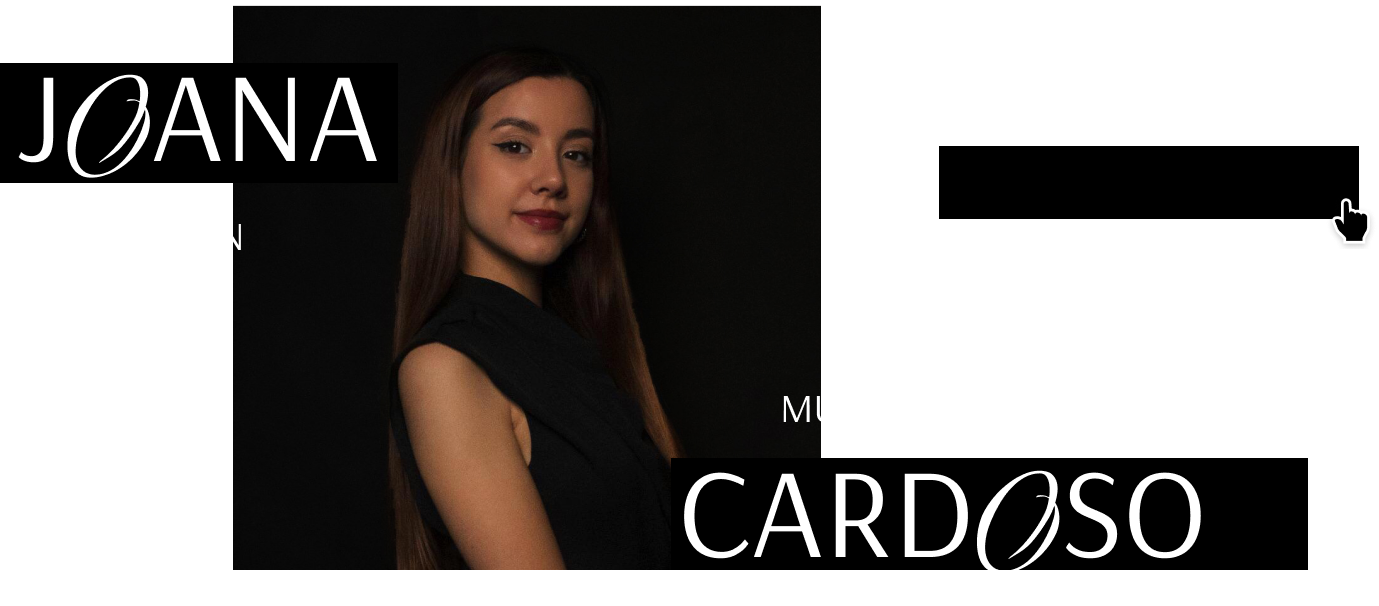
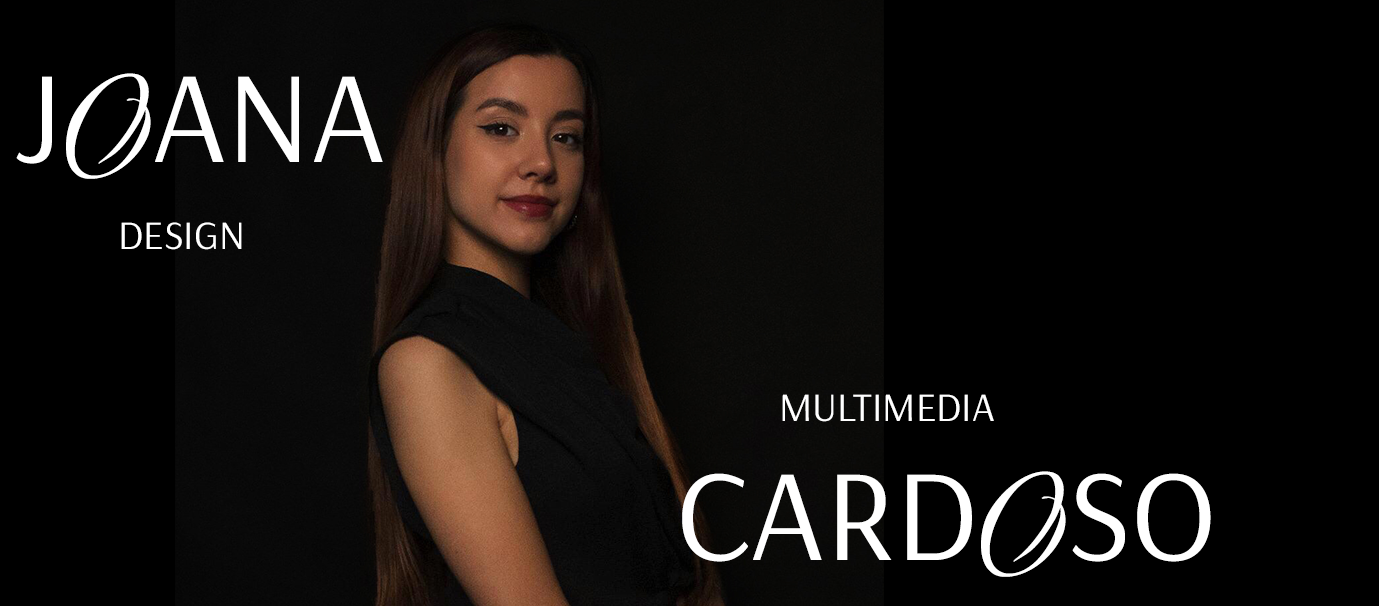
En+CaixaResponsive

diff --git a/styles.css b/styles.css
@@ -161,13 +161,18 @@ h3 {
 
 }
 
+/*Secção onde o texto fica dentro da outline para criar uma caixa, justifiquei o texto à esquerda e alterei o tamanho da caixa*/
 section {
+  text-align: justify;
+  text-justify: inter-word;
+  width: 40%;
   margin-left: 3em;
   display: inline-block;
   padding: 0em;
   padding-bottom: 1em;
-  padding-right: 1em;
+  padding-right: 2em;
   outline: 1px solid #FFFFFF;
+  
 }
 
 #homeimg {
@@ -177,6 +182,16 @@ section {
   margin-right: auto;
   margin-bottom: 2em;
   width: 80%;
+}
+
+/*Botão "About my work" -> defini a largura desejada e coloquei a altura a auto, para redimensionar consoante o tamanho do ecrã e ajustei a posição (absolute para ficar em cima da outra imagem) consoante o design pretendido, usei percentagens para o design ser responsive */
+#botaomain
+{
+  width: 30%;
+  height: auto;
+  position: absolute;
+  margin-top: -30%;
+  margin-left: 55%;
 }
 
 #meutrabalho {
@@ -241,7 +256,7 @@ footer {
   }
 
   nav {
-    font-size: 0.9em;
+    font-size: 0.8em;
   }
 
 
@@ -253,6 +268,21 @@ footer {
     font-size: 1em;
     word-spacing: 5em;
   }
+
+  /*Ajustei este botão quando o ecrã tem o tamanho mais pequeno para o destacar e facilitar o click no mesmo*/
+  #botaomain
+{
+  width: 84%;
+  height: auto;
+  position: relative;
+  margin-top: 0%;
+  margin-left: 10%;
+}
+
+/*Ajustei a largura da caixa para melhor leitura em diferentes ecrãs*/
+section {
+  width: 75%;
+}
 }
 
 
@@ -273,6 +303,11 @@ footer {
   body {
     background-color: red;
   }
+
+  /*Ajustei a largura da caixa para melhor leitura em diferentes ecrãs*/
+  section {
+    width: 82%;
+  }
 }
 
 
@@ -283,7 +318,12 @@ footer {
   }
 
   body {
-    background-color: yellow;
+    background-color: rgb(255, 187, 0);
+  }
+
+/*Ajustei a largura da caixa para melhor leitura em diferentes ecrãs*/
+  section {
+    width: 87%;
   }
 }
 
@@ -297,6 +337,11 @@ footer {
   body {
     background-color: pink;
   }
+
+  /*Ajustei a largura da caixa para melhor leitura em diferentes ecrãs*/
+  section {
+    width: 50%;
+  }
 }
 
 
@@ -309,6 +354,11 @@ footer {
   body {
     background-color: grey;
   }
+  
+  /*Ajustei a largura da caixa para melhor leitura em diferentes ecrãs*/
+  section {
+    width: 40%;
+  }
 }
 
 /* XX-large devices (large laptops and desktops, 1200px and up) */
@@ -319,5 +369,10 @@ footer {
 
   body {
     background-color: green;
+  }
+
+  /*Ajustei a largura da caixa para melhor leitura em diferentes ecrãs*/
+  section {
+    width: 40%;
   }
 }

diff --git a/sobremim.html b/sobremim.html
@@ -1,10 +1,10 @@
 <!DOCTYPE html>
-<html lang="pt">
+<html lang="en">
 
 <head>
     <meta charset="UTF-8">
     <meta name="viewport" content="width=device-width, initial-scale=1.0">
-    <meta name="description" content="Portfolio de Design e Multimédia de Joana Cardoso">
+    <meta name="description" content="Joana Cardoso's Graphic Design and Multimedia Portfolio">
     <meta name="keywords" content="design, multimedia, portfolio, UI, UX">
     <meta name="author" content="Joana Cardoso">
     <title>Joana's Portfolio</title>
@@ -30,8 +30,8 @@
     <main>
         <h2>S<span>o</span>bre mim</h2>
         <section>
-            <p>Chamo-me <strong>Joana</strong>, sou de Viseu, Portugal e tenho 20 anos...</p>
-            <!--Descrição incompleta, para refazer posteriormente-->
+            <p>Hello, my name is <strong>Joana</strong>, I'm from Viseu - Portugal and I'm 21 years old. I took a professional multimedia course, where I developed a taste for the area, after which I decided to enter a degree in graphic design and multimedia to develop my skills in the area, at the moment I am exploring the market and looking for new opportunities. </p>
+            
         </section>
 
         <h2>C<span>o</span>mpetências Técnicas</h2>

diff --git a/index.html b/index.html
@@ -1,10 +1,10 @@
 <!DOCTYPE html>
-<html lang="pt">
+<html lang="en">
 
 <head>
     <meta charset="UTF-8">
     <meta name="viewport" content="width=device-width, initial-scale=1.0">
-    <meta name="description" content="Portfolio de Design e Multimédia de Joana Cardoso">
+    <meta name="description" content="Joana Cardoso's Graphic Design and Multimedia Portfolio">
     <meta name="keywords" content="design, multimedia, portfolio, UI, UX">
     <meta name="author" content="Joana Cardoso">
     <title>Joana's Portfolio</title>
@@ -29,7 +29,7 @@
 <body>
     <main>
         <img id="homeimg" src="imagens/main.png" alt="A minha fotografia" />
-        <a id="meutrabalho" href="trabalhos.html">Conhece o meu trabalho</a>  
+        <a href="trabalhos.html"> <img id="botaomain" src="imagens/aboutwork.png" />  </a>  
     </main>
   
 </body>

diff --git a/contactos.html b/contactos.html
@@ -1,10 +1,10 @@
 <!DOCTYPE html>
-<html lang="pt">
+<html lang="en">
 
 <head>
     <meta charset="UTF-8">
     <meta name="viewport" content="width=device-width, initial-scale=1.0">
-    <meta name="description" content="Portfolio de Design e Multimédia de Joana Cardoso">
+    <meta name="description" content="Joana Cardoso's Graphic Design and Multimedia Portfolio">
     <meta name="keywords" content="design, multimedia, portfolio, UI, UX">
     <meta name="author" content="Joana Cardoso">
     <title>Joana's Portfolio</title>

diff --git a/projetos/projeto1/projeto1.html b/projetos/projeto1/projeto1.html
@@ -1,10 +1,10 @@
 <!DOCTYPE html>
-<html lang="pt">
+<html lang="en">
 
 <head>
     <meta charset="UTF-8">
     <meta name="viewport" content="width=device-width, initial-scale=1.0">
-    <meta name="description" content="Portfolio de Design e Multimédia de Joana Cardoso">
+    <meta name="description" content="Joana Cardoso's Graphic Design and Multimedia Portfolio">
     <meta name="keywords" content="design, multimedia, portfolio, UI, UX">
     <meta name="author" content="Joana Cardoso">
     <title>Joana's Portfolio</title>

diff --git a/trabalhos.html b/trabalhos.html
@@ -1,10 +1,10 @@
 <!DOCTYPE html>
-<html lang="pt">
+<html lang="en">
 
 <head>
     <meta charset="UTF-8">
     <meta name="viewport" content="width=device-width, initial-scale=1.0">
-    <meta name="description" content="Portfolio de Design e Multimédia de Joana Cardoso">
+    <meta name="description" content="Joana Cardoso's Graphic Design and Multimedia Portfolio">
     <meta name="keywords" content="design, multimedia, portfolio, UI, UX">
     <meta name="author" content="Joana Cardoso">
     <title>Joana's Portfolio</title>
